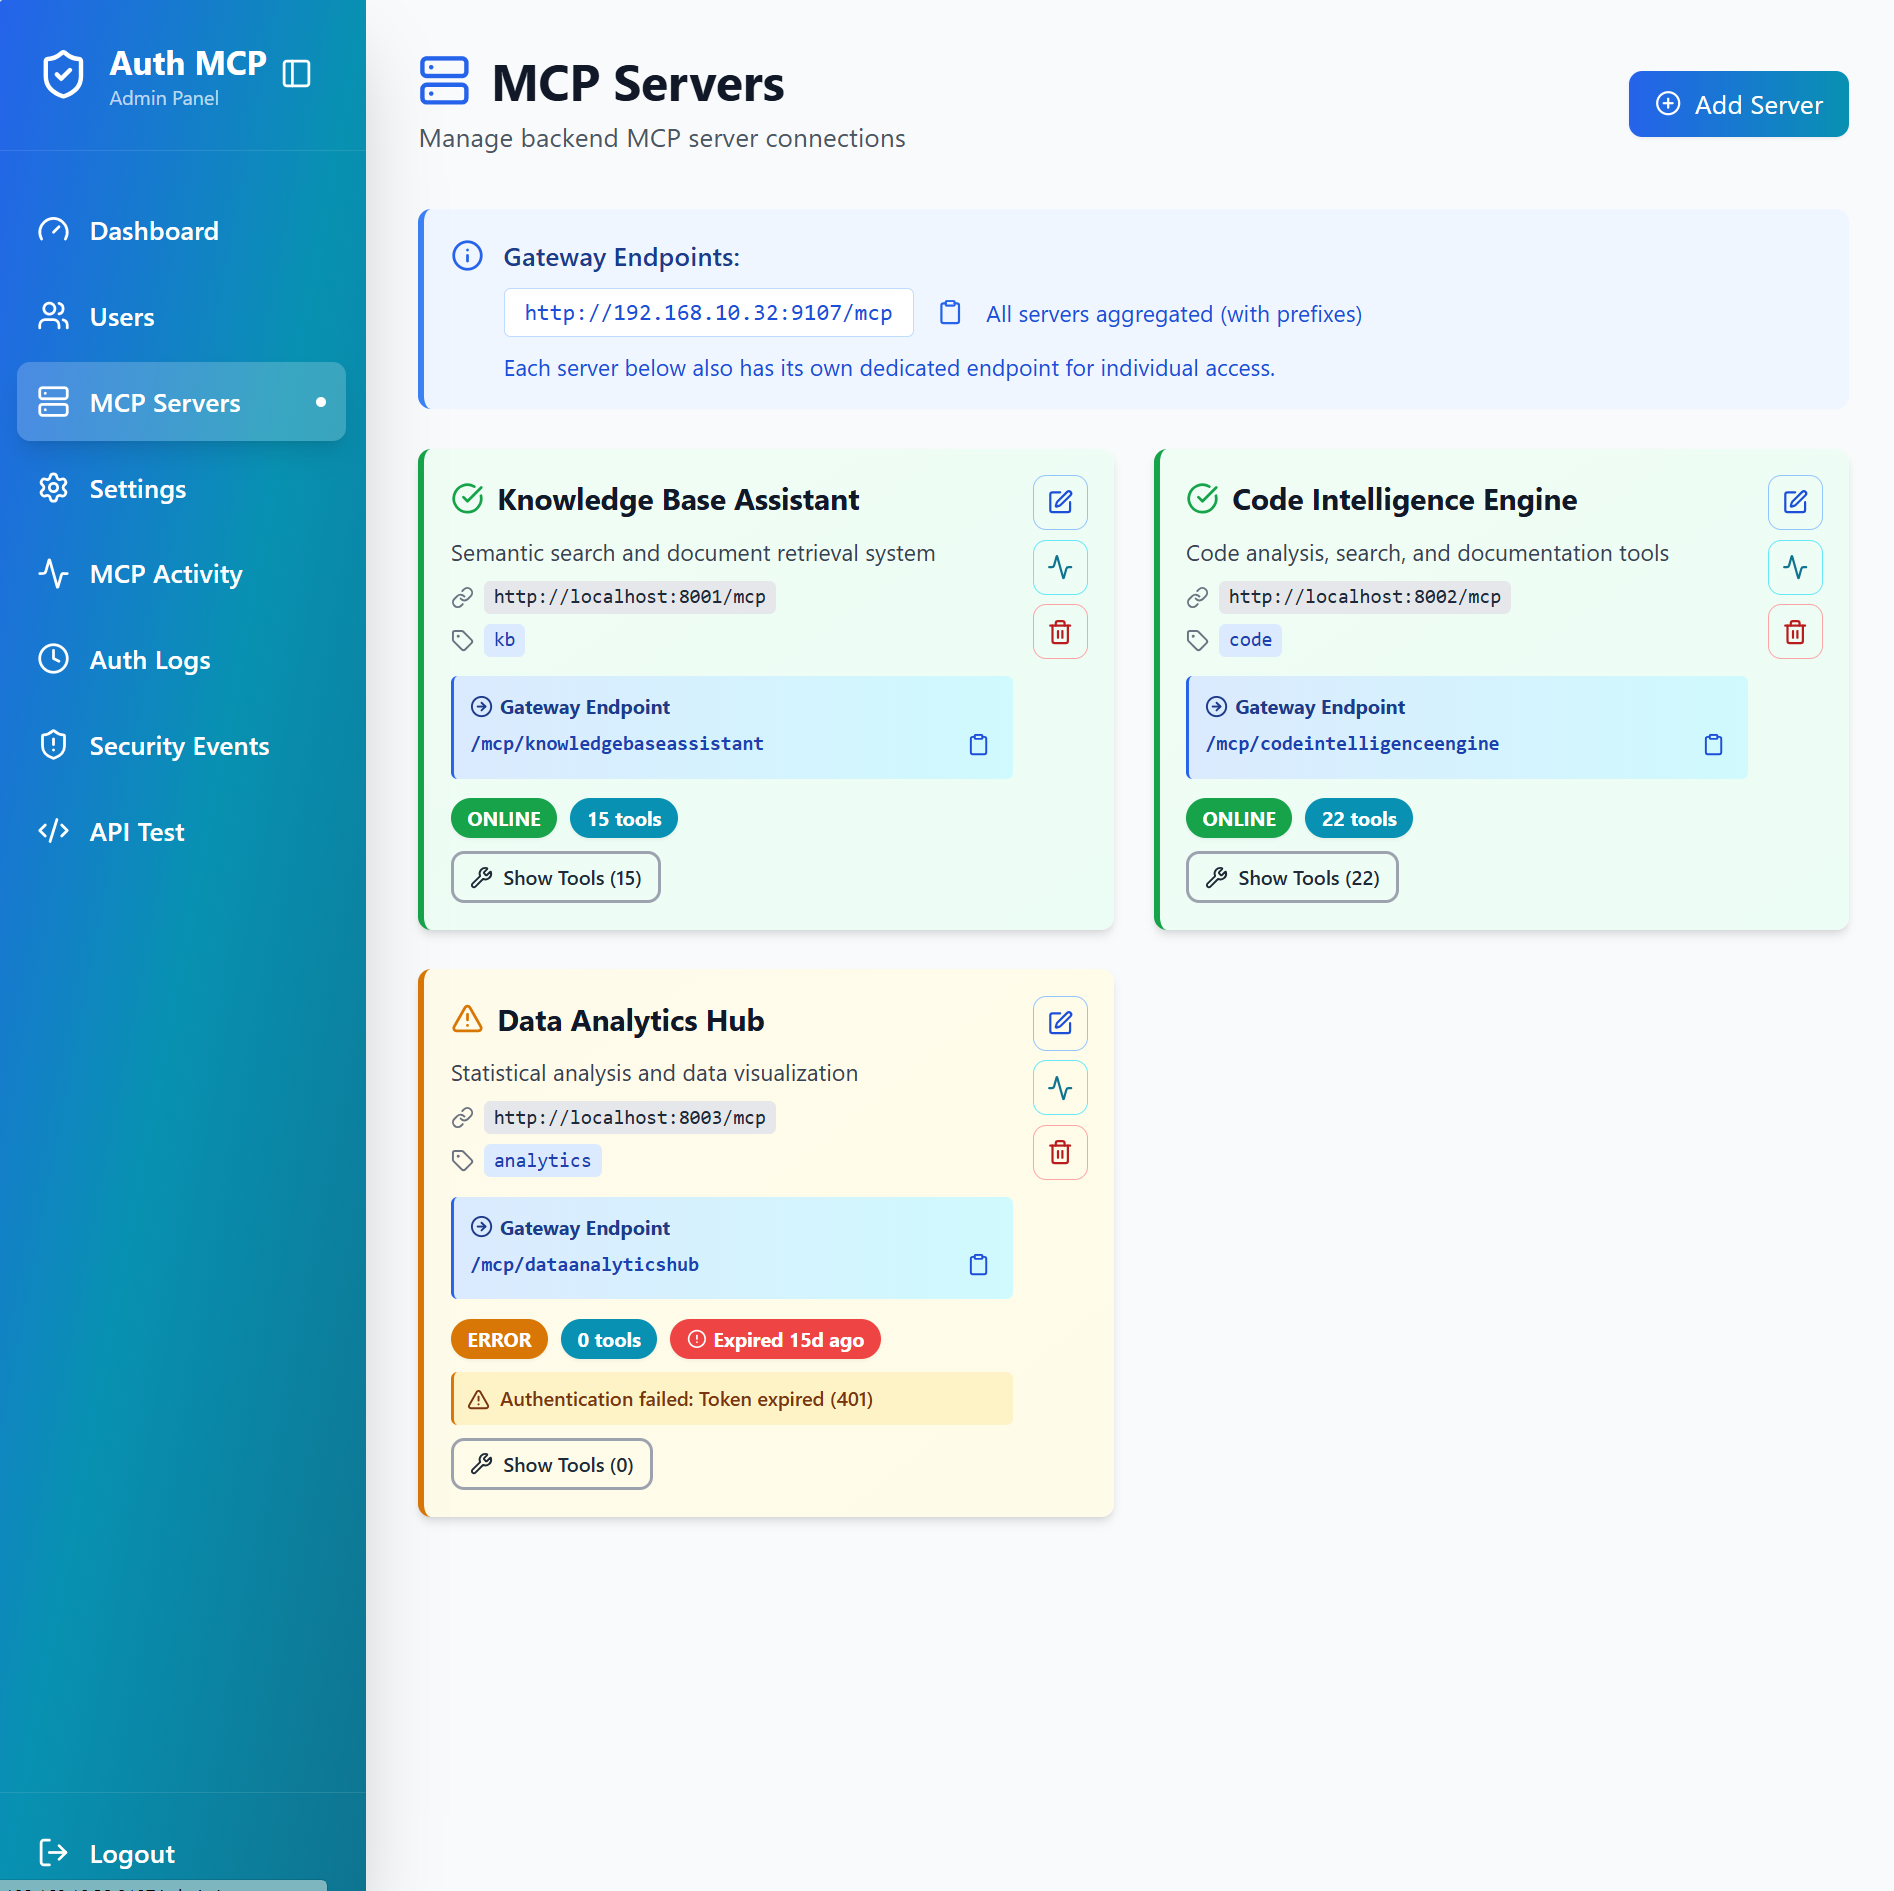
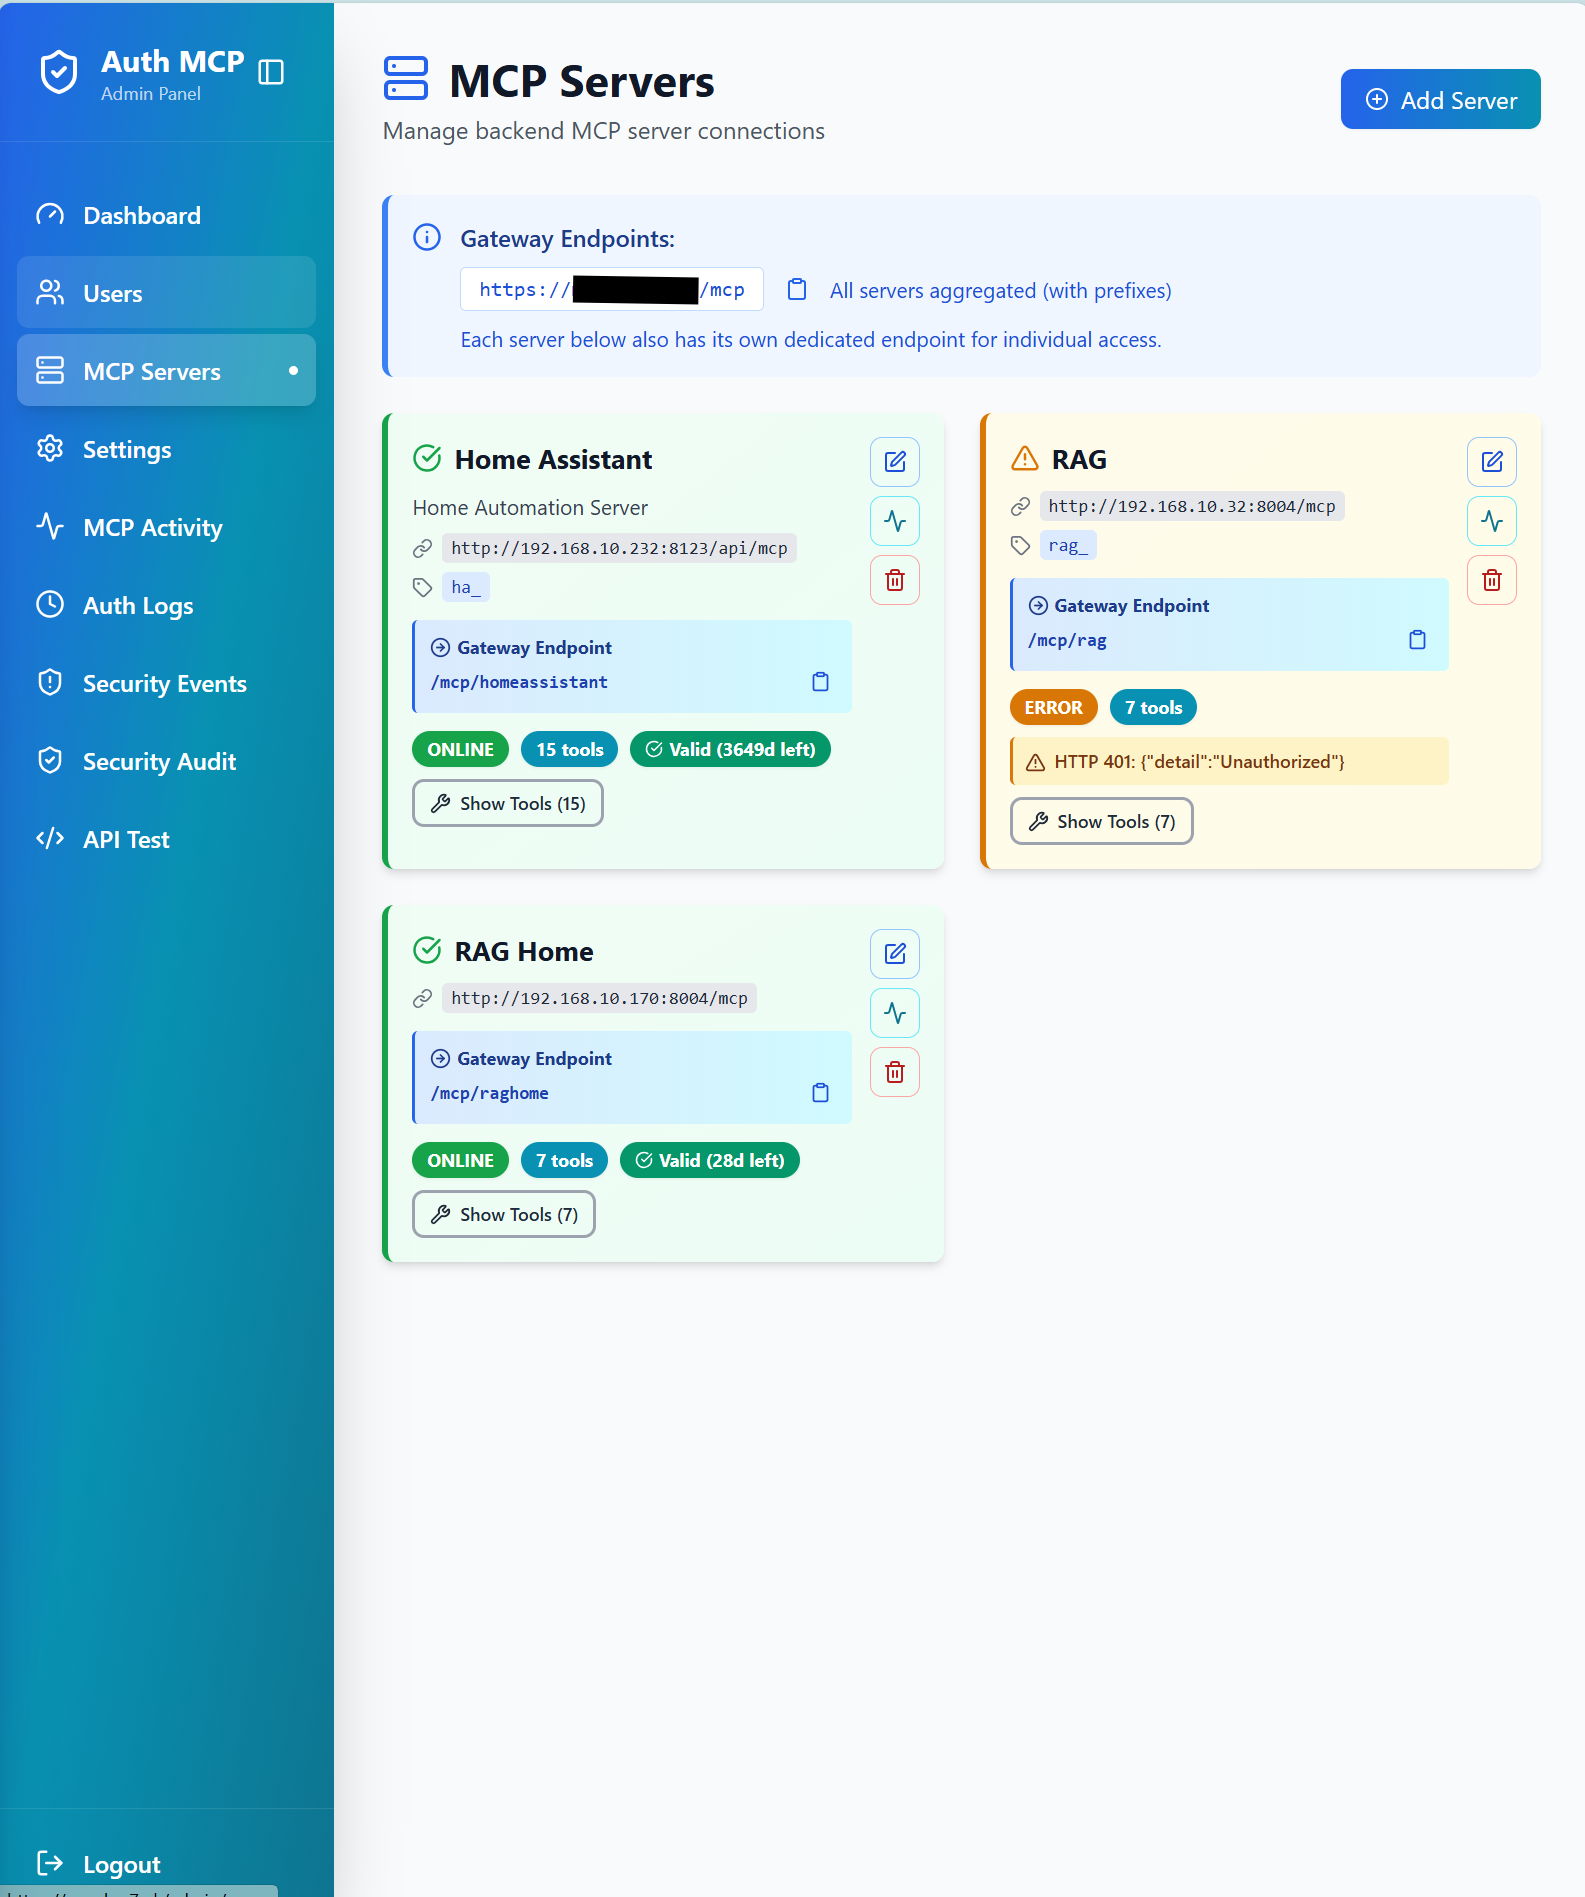
Update MCP Servers screenshot with production data

Changed region(s): [[0.0, 0.0, 0.9584, 1.0], [0.8347, 0.0312, 0.9893, 0.0936], [0.0309, 0.4368, 0.0927, 0.468]]

diff --git a/docs/4PDA_POST.md b/docs/4PDA_POST.md
@@ -1,0 +1,40 @@
+# Пост для 4PDA - AuthMCP Gateway
+
+## BB-код для поста:
+
+```bbcode
+[B]🛡 AuthMCP Gateway - шлюз для MCP серверов[/B]
+
+Сделал шлюз для подключения MCP серверов к AI клиентам (Claude Desktop, GitHub Copilot, Cursor и др.).
+
+[B]Что это даёт:[/B]
+• Можно подключить несколько MCP серверов через одну точку
+• Добавляется авторизация (обычно MCP сервера без защиты)
+• Видно кто и что запрашивает
+• Можно давать доступ разным пользователям
+• Защита от злоупотреблений
+
+В общем - удобное и безопасное подключение MCP инструментов к AI.
+
+PyPI: [url=https://pypi.org/project/authmcp-gateway/]authmcp-gateway[/url]
+GitHub: [url=https://github.com/loglux/authmcp-gateway]loglux/authmcp-gateway[/url]
+
+[B]Скриншоты:[/B]
+[img]https://raw.githubusercontent.com/loglux/authmcp-gateway/main/docs/screenshots/01-dashboard.png[/img]
+[img]https://raw.githubusercontent.com/loglux/authmcp-gateway/main/docs/screenshots/02-mcp-servers.png[/img]
+[img]https://raw.githubusercontent.com/loglux/authmcp-gateway/main/docs/screenshots/05-mcp-security-audit.png[/img]
+
+[spoiler=Установка:]
+[code]
+pip install authmcp-gateway
+authmcp-gateway
+[/code]
+Открыть http://localhost:9105/setup - создать админа, добавить свои MCP сервера.
+
+Подробнее: [url=https://github.com/loglux/authmcp-gateway]GitHub[/url]
+[/spoiler]
+
+Open Source (MIT). Новая версия 1.0.2 - добавил проверку безопасности MCP серверов.
+
+#ИИинструменты #MCP
+```
